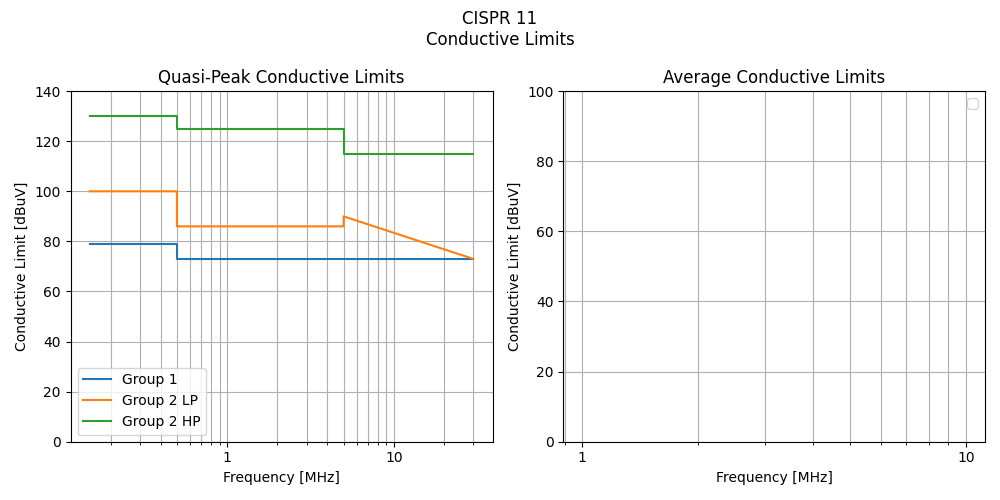
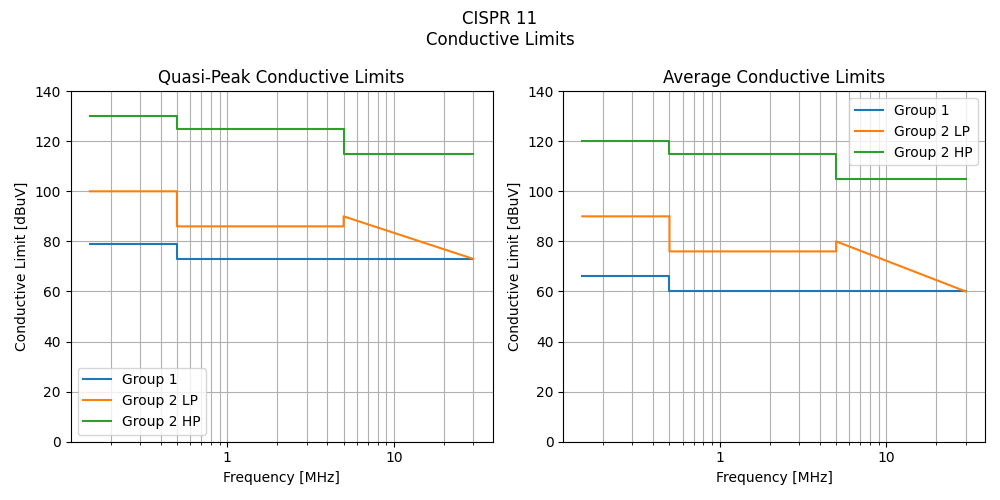
Added CISPR 11 info.

diff --git a/content/electronics/electromagnetic-compatibility-emc/main.py b/content/electronics/electromagnetic-compatibility-emc/main.py
@@ -132,7 +132,39 @@ def plot_cispr11_conductive_limits():
     ###########
     ax = axes[1]
 
-    # TODO: Add plots here.
+    # Group 1
+    vertices = np.array([
+        # freq_MHz, limit_dBuV
+        [ 0.15, 66 ],
+        [ 0.5,  66 ],
+        [ 0.5,  60 ],
+        [ 30,   60 ],
+    ])
+    ax.plot(vertices[:, 0], vertices[:, 1], label="Group 1")
+
+    # Group 2, LP
+    vertices = np.array([
+        # freq_MHz, limit_dBuV
+        [ 0.15, 90 ],
+        [ 0.5,  90 ],
+        [ 0.5,  76 ],
+        [ 5,    76 ],
+        [ 5,    80 ],
+        [ 30,   60 ],
+    ])
+    ax.plot(vertices[:, 0], vertices[:, 1], label="Group 2 LP")
+
+    # Group 2, HP
+    vertices = np.array([
+        # freq_MHz, limit_dBuV
+        [ 0.15, 120 ],
+        [ 0.5,  120 ],
+        [ 0.5,  115 ],
+        [ 5,    115 ],
+        [ 5,    105 ],
+        [ 30,   105 ],
+    ])
+    ax.plot(vertices[:, 0], vertices[:, 1], label="Group 2 HP")
 
     # Log for frequency
     ax.set_xscale('log')
@@ -142,7 +174,7 @@ def plot_cispr11_conductive_limits():
     ax.set_title('Average Conductive Limits')
     ax.set_xlabel('Frequency [MHz]')
     ax.set_ylabel('Conductive Limit [dBuV]')
-    ax.set_ylim(0, 100)
+    ax.set_ylim(0, 140)
     ax.legend()
     ax.grid(which='both', axis='x')
     ax.grid(which='major', axis='y')
